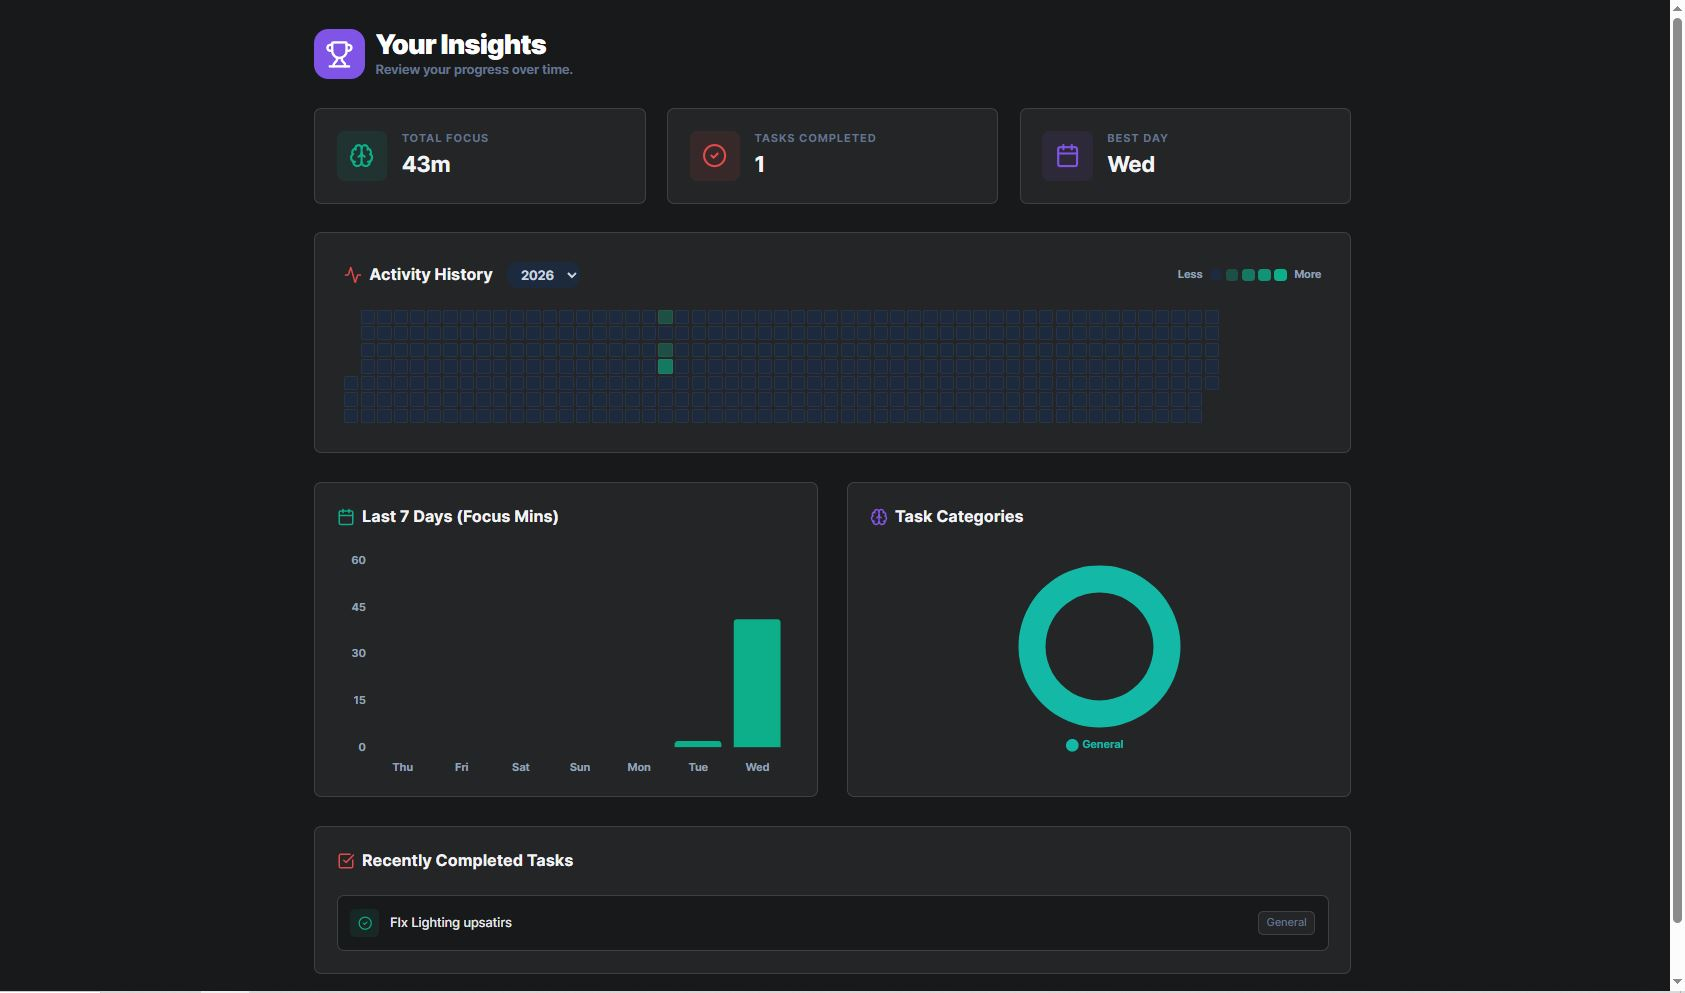
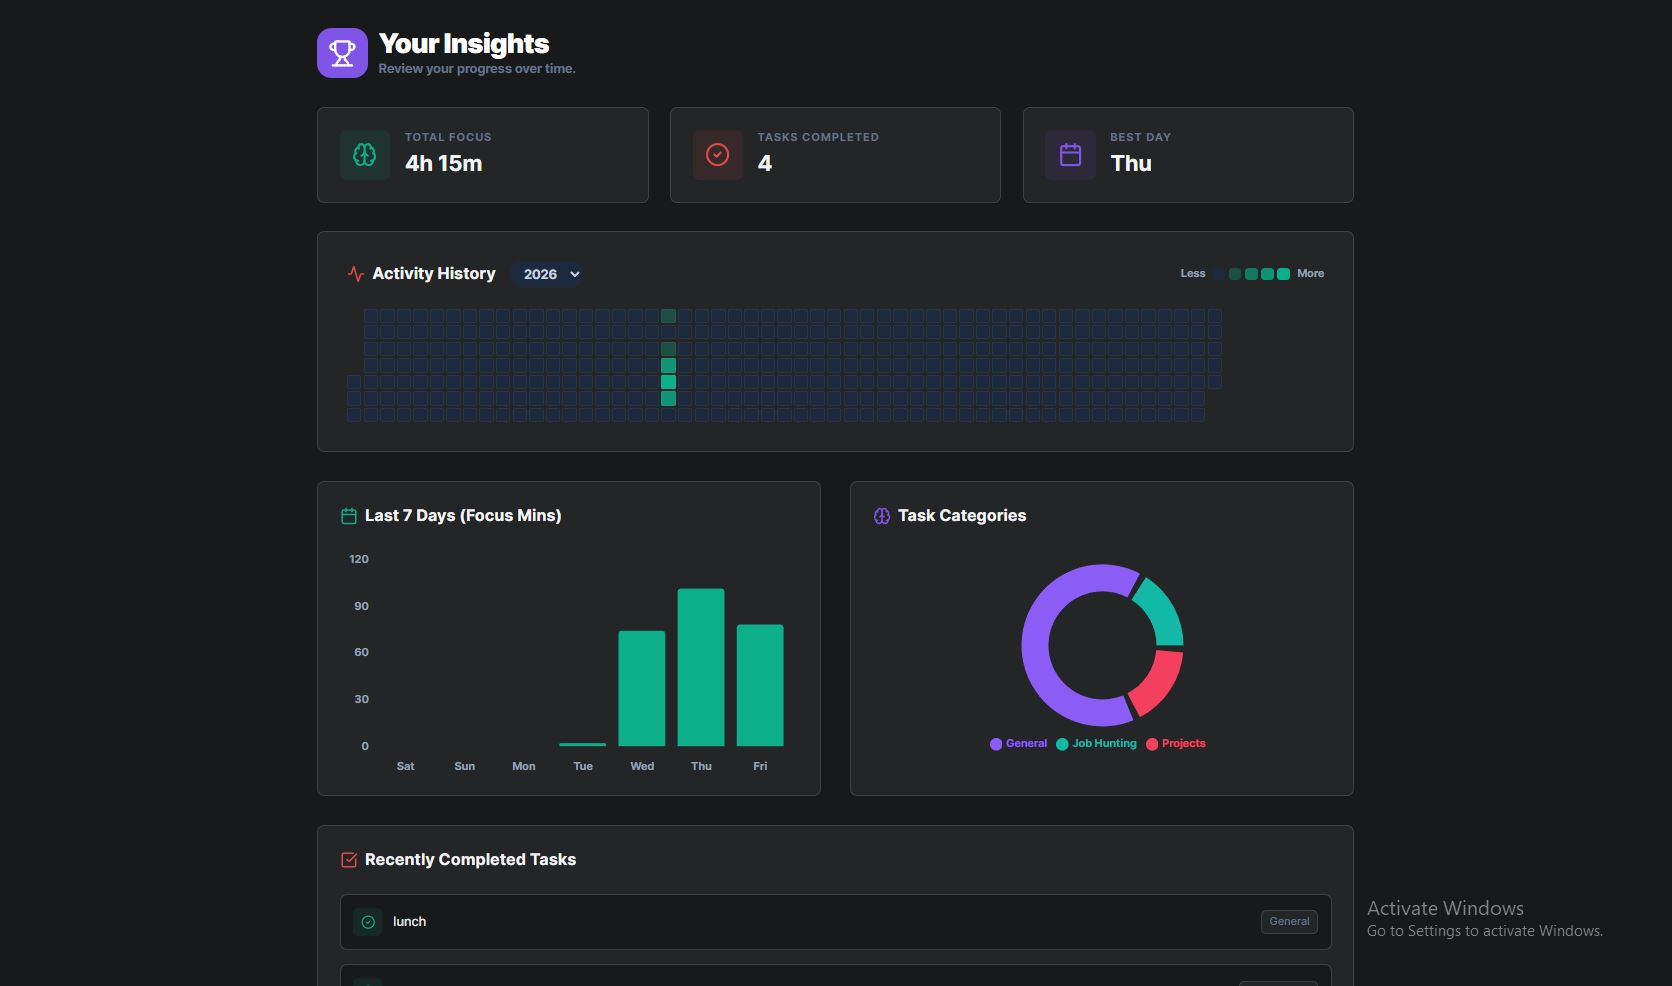
My Autocad Files

diff --git a/src/App.tsx b/src/App.tsx
@@ -24,6 +24,7 @@ import {
   Lock,
   X,
   Clock,
+  PenTool,
   Plus
 } from "lucide-react";
 import { TiltCard } from "./components/TiltCard";
@@ -48,6 +49,7 @@ interface ProjectSection {
   images?: string[];
   videoUrl?: string;
   videoUrls?: string[];
+  pdfs?: { title: string; url: string }[];
 }
 
 interface Project {
@@ -136,7 +138,7 @@ const projects: Project[] = [
     color: "text-kurz-cyan",
     bg: "bg-kurz-cyan",
     icon: Clock,
-    image: "./assets/osync/overview.JPG",
+    image: "./assets/osync/dashboard.JPG",
     externalUrl: "https://olliesync-7b5be.web.app/",
     gallery: [
       "./assets/osync/lightmode.JPG", 
@@ -207,6 +209,16 @@ const projects: Project[] = [
           "Metadata Extraction: Dynamic title extraction and structured mood/tag arrays pushed directly to Firestore."
         ],
         image: "./assets/osync/journal.JPG"
+      },
+      {
+        title: "Budget Tracker",
+        content: "A simple and intuitive budget tracking module seamlessly integrated into the dashboard.",
+        bullets: [
+          "Financial Logging: Easily log and categorize daily expenses and incomes.",
+          "Balance Context: Gives you a clear picture of your finances alongside your daily tasks and habits.",
+          "Visual Overview: Tracks and presents your spending patterns to encourage healthy financial habits."
+        ],
+        image: "./assets/osync/budgettracker.JPG"
       },
       {
         title: "Analytics",
@@ -896,6 +908,49 @@ const projects: Project[] = [
       }
     ],
     features: ["Thematic Web Design", "Elementor Integration", "Interactive UX"]
+  },
+  {
+    title: "AutoCAD Drafts",
+    subtitle: "2D Drafting & Activities",
+    desc: "A collection of precise AutoCAD drawings, encompassing various drafting activities and design exercises.",
+    longDesc: "These are the PDFs and image exports of our AutoCAD drawings created as part of the coursework activities. They focus on precision drafting, technical layouts, and 2D design concepts. The outputs include several laboratory activities alongside final detailed drawings.",
+    tags: ["AutoCAD", "Drafting", "2D Design"],
+    color: "text-red-500",
+    bg: "bg-red-500",
+    icon: PenTool,
+    image: "./assets/autocad/SOLIS_BSCPE_2-B_DRAW-23_FINALS.png",
+    gallery: [
+      "./assets/autocad/SOLIS_BSCPE_2-B_DRAW-23_FINALS(1).jpg",
+      "./assets/autocad/SOLIS_BSCPE_2-B_DRAW-23_FINALS.jpg"
+    ],
+    features: ["Precision Drafting", "Detailed PDF Exports", "Technical Layouts"],
+    sections: [
+      {
+        title: "Final Drawings & Concepts",
+        content: "High-precision CAD representations demonstrating mastery of geometric configurations and standard drafting conventions.",
+        image: "./assets/autocad/SOLIS_BSCPE_2-B_DRAW-23_FINALS.png",
+        images: [
+          "./assets/autocad/SOLIS_BSCPE_2-B_DRAW-23_FINALS(1).jpg",
+          "./assets/autocad/SOLIS_BSCPE_2-B_DRAW-23_FINALS.jpg"
+        ]
+      },
+      {
+        title: "Laboratory PDFs",
+        content: "Detailed assignments and activities captured as standardized PDF plots for review.",
+        pdfs: [
+          { title: "FINAL ACTIVITIES FOR 2D DRAWING", url: "./assets/autocad/SOLIS_BSCpE_2-B_DRAW23_FINAL ACTIVITIES FOR 2D DRAWING.pdf" },
+          { title: "LAB-ACT1", url: "./assets/autocad/SOLIS_BSCpE_2-B_DRAW23_LAB-ACT1.pdf" },
+          { title: "LAB-ACT2", url: "./assets/autocad/SOLIS_BSCpE_2-B_DRAW23_LAB-ACT2.pdf" },
+          { title: "LAB-ACT3", url: "./assets/autocad/SOLIS_BSCpE_2-B_DRAW23_LAB-ACT3.pdf" },
+          { title: "LAB-ACT4", url: "./assets/autocad/SOLIS_BSCpE_2-B_DRAW23_LAB-ACT4.pdf" },
+          { title: "LAB-ACT5", url: "./assets/autocad/SOLIS_BSCpE_2-B_DRAW23_LAB-ACT5.pdf" },
+          { title: "LAB-ACT6", url: "./assets/autocad/SOLIS_BSCpE_2-B_DRAW23_LAB-ACT6.pdf" },
+          { title: "LAB-ACT7", url: "./assets/autocad/SOLIS_BSCpE_2-B_DRAW23_LAB-ACT7.pdf" },
+          { title: "LAB-ACT8", url: "./assets/autocad/SOLIS_BSCpE_2-B_DRAW23_LAB-ACT8.pdf" },
+          { title: "LAB-ACT9", url: "./assets/autocad/SOLIS_BSCpE_2-B_DRAW23_LAB-ACT9.pdf" }
+        ]
+      }
+    ]
   }
 ];
 
@@ -1029,6 +1084,22 @@ const ProjectModal = ({ project, onClose, onZoom }: { project: Project | null, o
                                 </li>
                               ))}
                             </ul>
+                          )}
+                          {section.pdfs && (
+                            <div className="grid grid-cols-1 sm:grid-cols-2 gap-3 mt-4">
+                              {section.pdfs.map((pdf, pidx) => (
+                                <a 
+                                  key={pidx} 
+                                  href={pdf.url} 
+                                  target="_blank" 
+                                  rel="noopener noreferrer"
+                                  className="flex items-center p-3 rounded-lg bg-white/5 border border-white/10 hover:bg-white/10 transition-colors"
+                                >
+                                  <svg xmlns="http://www.w3.org/2000/svg" className="w-5 h-5 mr-3 text-red-500" viewBox="0 0 24 24" fill="none" stroke="currentColor" strokeWidth="2" strokeLinecap="round" strokeLinejoin="round"><path d="M14 2H6a2 2 0 0 0-2 2v16a2 2 0 0 0 2 2h12a2 2 0 0 0 2-2V8z"></path><polyline points="14 2 14 8 20 8"></polyline><line x1="16" y1="13" x2="8" y2="13"></line><line x1="16" y1="17" x2="8" y2="17"></line><polyline points="10 9 9 9 8 9"></polyline></svg>
+                                  <span className="text-sm text-slate-300 font-medium truncate">{pdf.title}</span>
+                                </a>
+                              ))}
+                            </div>
                           )}
                         </div>
                         <div className="space-y-4">
